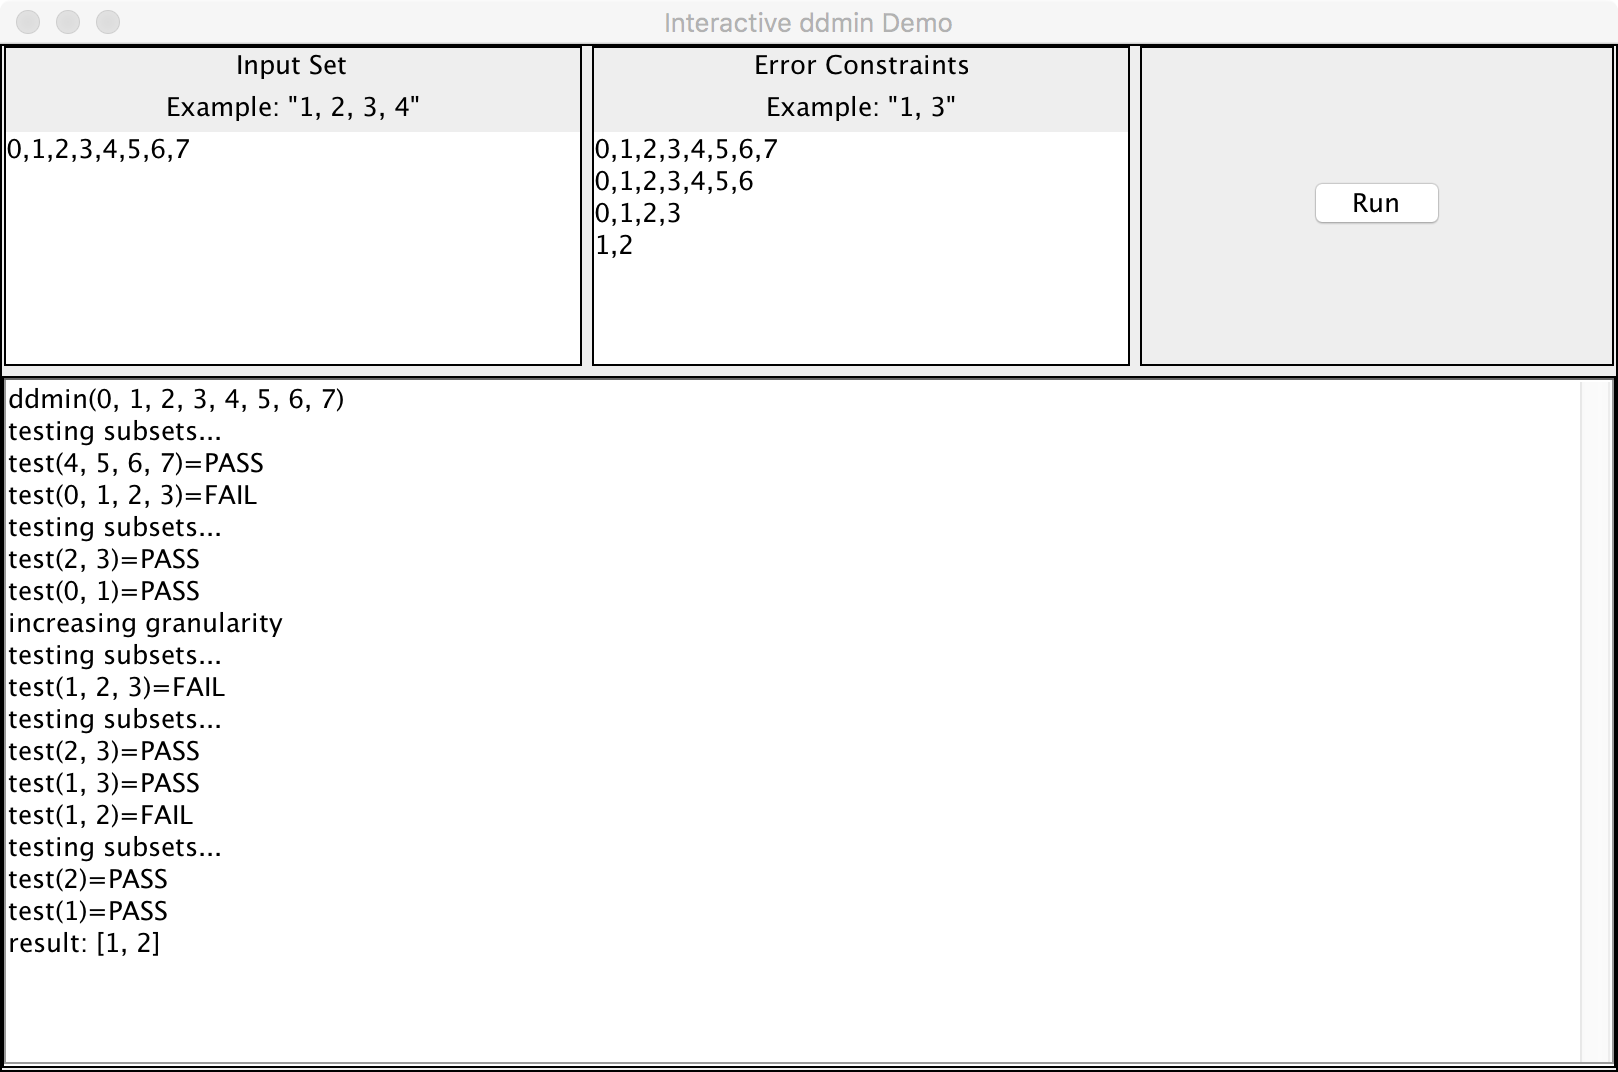
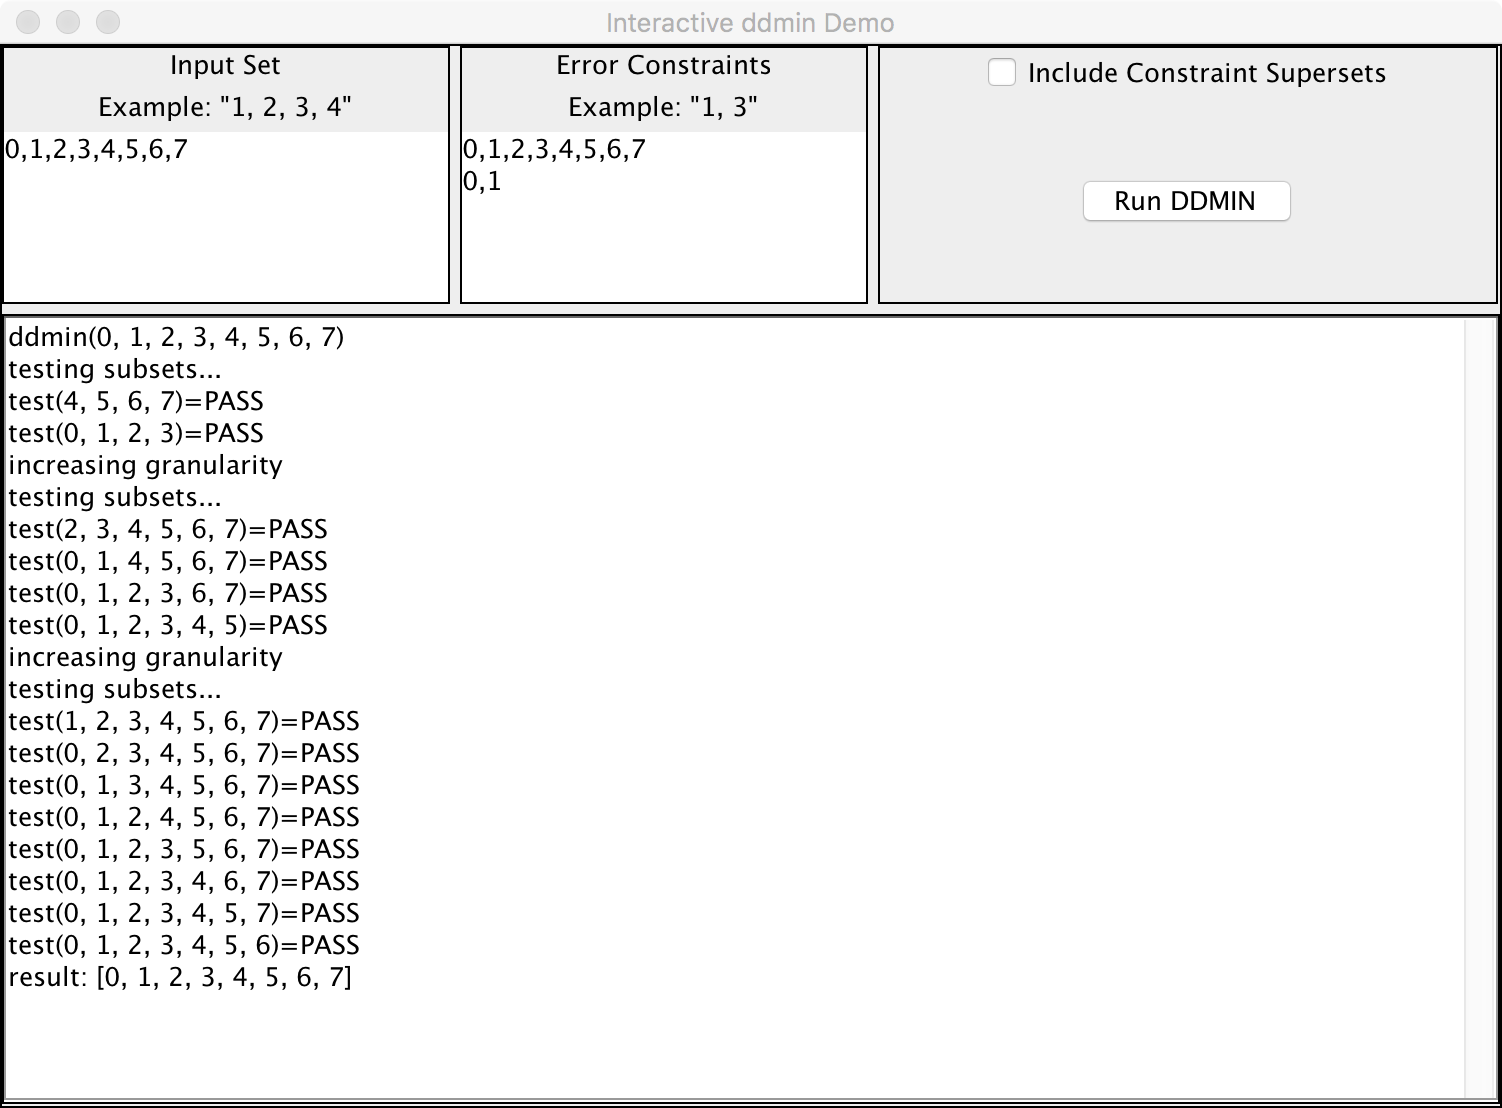
added support for supersets

Changed region(s): [[0.0, 0.0, 1.0, 0.8927], [0.0, 0.9851, 1.0, 1.0], [0.735, 0.1539, 0.8881, 0.2155]]

diff --git a/DeltaDebug/src/dd/examples/InteractiveDemo.java b/DeltaDebug/src/dd/examples/InteractiveDemo.java
@@ -22,6 +22,7 @@ import javax.swing.ScrollPaneConstants;
 import javax.swing.border.LineBorder;
 
 import dd.TestHarness;
+import javax.swing.JCheckBox;
 
 public class InteractiveDemo extends JFrame {
 
@@ -156,15 +157,23 @@ public class InteractiveDemo extends JFrame {
 		inputPanel.add(controlPanel, gbc_controlPanel);
 		GridBagLayout gbl_controlPanel = new GridBagLayout();
 		gbl_controlPanel.columnWidths = new int[]{0, 0};
-		gbl_controlPanel.rowHeights = new int[]{0, 0};
+		gbl_controlPanel.rowHeights = new int[]{0, 0, 0};
 		gbl_controlPanel.columnWeights = new double[]{1.0, Double.MIN_VALUE};
-		gbl_controlPanel.rowWeights = new double[]{1.0, Double.MIN_VALUE};
+		gbl_controlPanel.rowWeights = new double[]{0.0, 1.0, Double.MIN_VALUE};
 		controlPanel.setLayout(gbl_controlPanel);
 		
-		JButton runButton = new JButton("Run");
+		final JCheckBox includeErrorConstraintSupersets = new JCheckBox("Include Constraint Supersets");
+		GridBagConstraints gbc_chckbxIncludeErrorConstraint = new GridBagConstraints();
+		gbc_chckbxIncludeErrorConstraint.anchor = GridBagConstraints.NORTH;
+		gbc_chckbxIncludeErrorConstraint.insets = new Insets(0, 0, 5, 0);
+		gbc_chckbxIncludeErrorConstraint.gridx = 0;
+		gbc_chckbxIncludeErrorConstraint.gridy = 0;
+		controlPanel.add(includeErrorConstraintSupersets, gbc_chckbxIncludeErrorConstraint);
+		
+		JButton runButton = new JButton("Run DDMIN");
 		GridBagConstraints gbc_runButton = new GridBagConstraints();
 		gbc_runButton.gridx = 0;
-		gbc_runButton.gridy = 0;
+		gbc_runButton.gridy = 1;
 		controlPanel.add(runButton, gbc_runButton);
 		
 		JPanel outputPanel = new JPanel();
@@ -244,8 +253,16 @@ public class InteractiveDemo extends JFrame {
 					@Override
 					public int run(List<Integer> input) {
 						for(LinkedList<Integer> constraints : constraintSets){
-							if (input.containsAll(constraints)){
-								return FAIL; 
+							boolean checkEqual = input.containsAll(constraints) && (input.size() == constraints.size());
+							boolean checkSupersets = input.containsAll(constraints);
+							if(includeErrorConstraintSupersets.isSelected()){
+								if (checkSupersets){
+									return FAIL; 
+								}
+							} else {
+								if (checkEqual){
+									return FAIL; 
+								}
 							}
 						}
 						return PASS;
